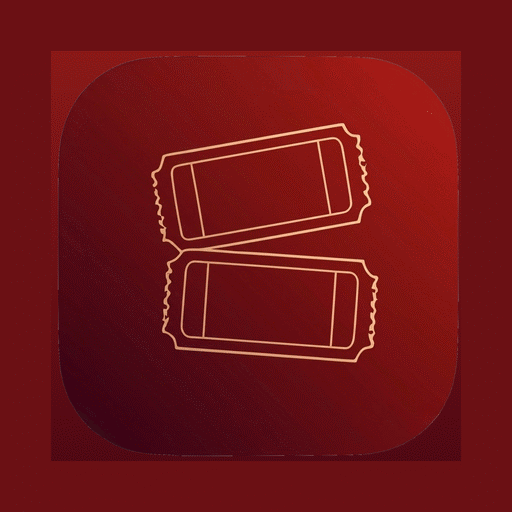
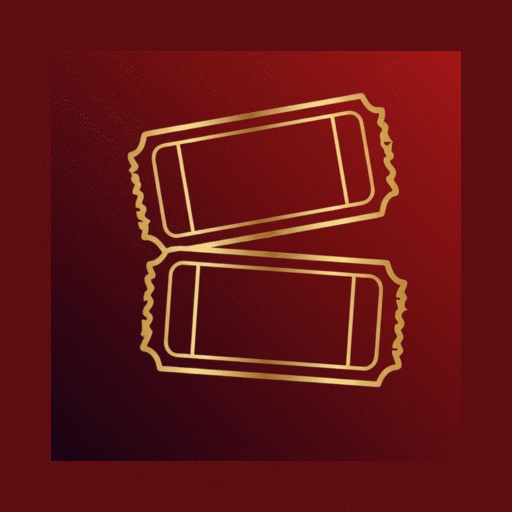
Icona aggiornata: oro piu caldo, senza filigrana
- ritaglio in zoom invece di ricostruire il fondo: sparisce l'arrotondamento
  originale senza lasciare aloni sul bordo
- rimosso il simbolo di Gemini in basso a destra con una toppa sfumata
  presa dal gradiente adiacente

Changed region(s): [[0.0938, 0.0938, 0.9062, 0.9062]]

diff --git a/index.html b/index.html
@@ -6,13 +6,13 @@
 <title>CINETECA — la mia biblioteca cinematografica</title>
 <meta name="theme-color" content="#05060B">
 <link rel="manifest" href="manifest.webmanifest">
-<link rel="apple-touch-icon" sizes="180x180" href="assets/icon-180.png?v=202608010722">
-<link rel="icon" type="image/png" sizes="192x192" href="assets/icon-192.png">
-<link rel="icon" type="image/png" sizes="512x512" href="assets/icon-512.png">
+<link rel="apple-touch-icon" sizes="180x180" href="assets/icon-180.png?v=202608010736">
+<link rel="icon" type="image/png" sizes="192x192" href="assets/icon-192.png?v=202608010736">
+<link rel="icon" type="image/png" sizes="512x512" href="assets/icon-512.png?v=202608010736">
 <meta name="apple-mobile-web-app-title" content="Cineteca">
 <meta name="apple-mobile-web-app-capable" content="yes">
 <meta name="apple-mobile-web-app-status-bar-style" content="black-translucent">
-<link rel="stylesheet" href="css/styles.css?v=202608010722">
+<link rel="stylesheet" href="css/styles.css?v=202608010736">
 </head>
 <body>
 
@@ -123,18 +123,18 @@
   </p>
 </footer>
 
-<script src="js/store.js?v=202608010722"></script>
-<script src="js/format.js?v=202608010722"></script>
-<script src="js/charts.js?v=202608010722"></script>
-<script src="js/consiglia.js?v=202608010722"></script>
-<script src="js/perte.js?v=202608010722"></script>
-<script src="js/notizie.js?v=202608010722"></script>
-<script src="js/stats.js?v=202608010722"></script>
-<script src="js/detail.js?v=202608010722"></script>
-<script src="js/novita.js?v=202608010722"></script>
+<script src="js/store.js?v=202608010736"></script>
+<script src="js/format.js?v=202608010736"></script>
+<script src="js/charts.js?v=202608010736"></script>
+<script src="js/consiglia.js?v=202608010736"></script>
+<script src="js/perte.js?v=202608010736"></script>
+<script src="js/notizie.js?v=202608010736"></script>
+<script src="js/stats.js?v=202608010736"></script>
+<script src="js/detail.js?v=202608010736"></script>
+<script src="js/novita.js?v=202608010736"></script>
 <script src="https://cdn.jsdelivr.net/npm/@supabase/supabase-js@2"></script>
-<script src="js/cloud-config.js?v=202608010722"></script>
-<script src="js/app.js?v=202608010722"></script>
-<script src="js/cloud.js?v=202608010722"></script>
+<script src="js/cloud-config.js?v=202608010736"></script>
+<script src="js/app.js?v=202608010736"></script>
+<script src="js/cloud.js?v=202608010736"></script>
 </body>
 </html>

diff --git a/sw.js b/sw.js
@@ -8,7 +8,7 @@
    quando la rete non c'è.
    ══════════════════════════════════════════════════════════ */
 
-const CACHE = 'cineteca-v202608010722';
+const CACHE = 'cineteca-v202608010736';
 const SHELL = [
   './', './index.html', './css/styles.css',
   './js/store.js', './js/format.js', './js/charts.js',
